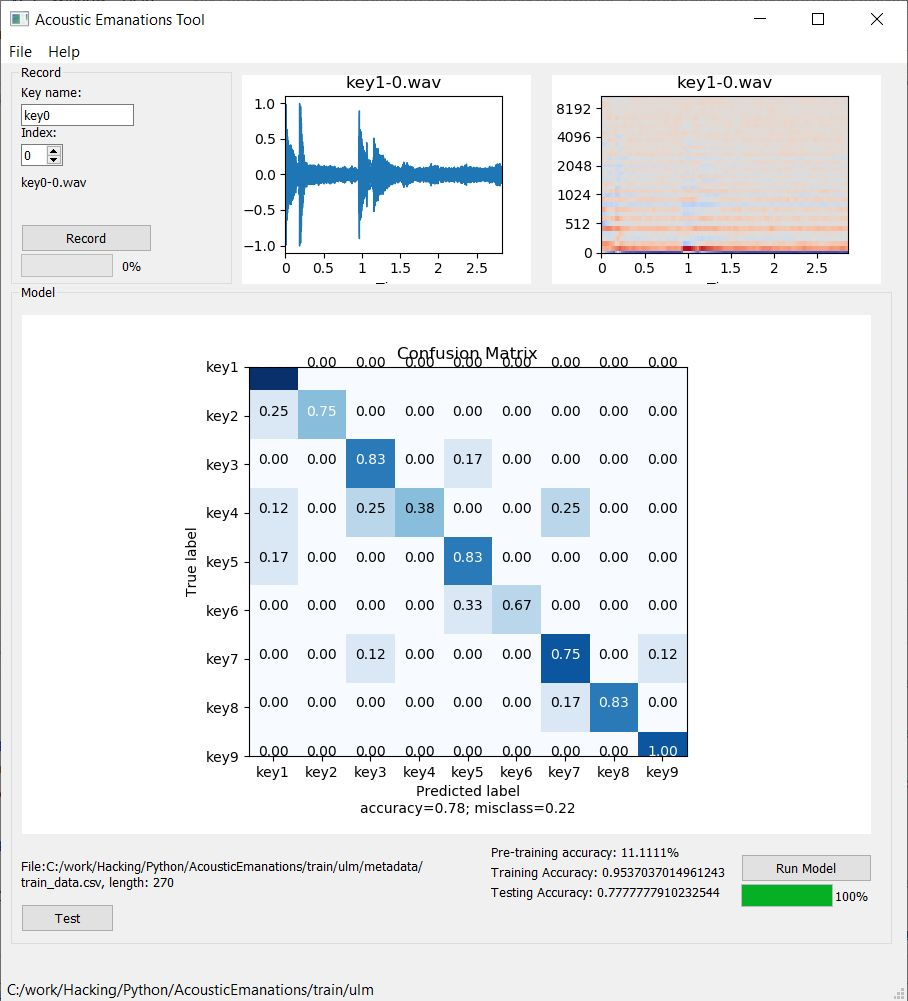
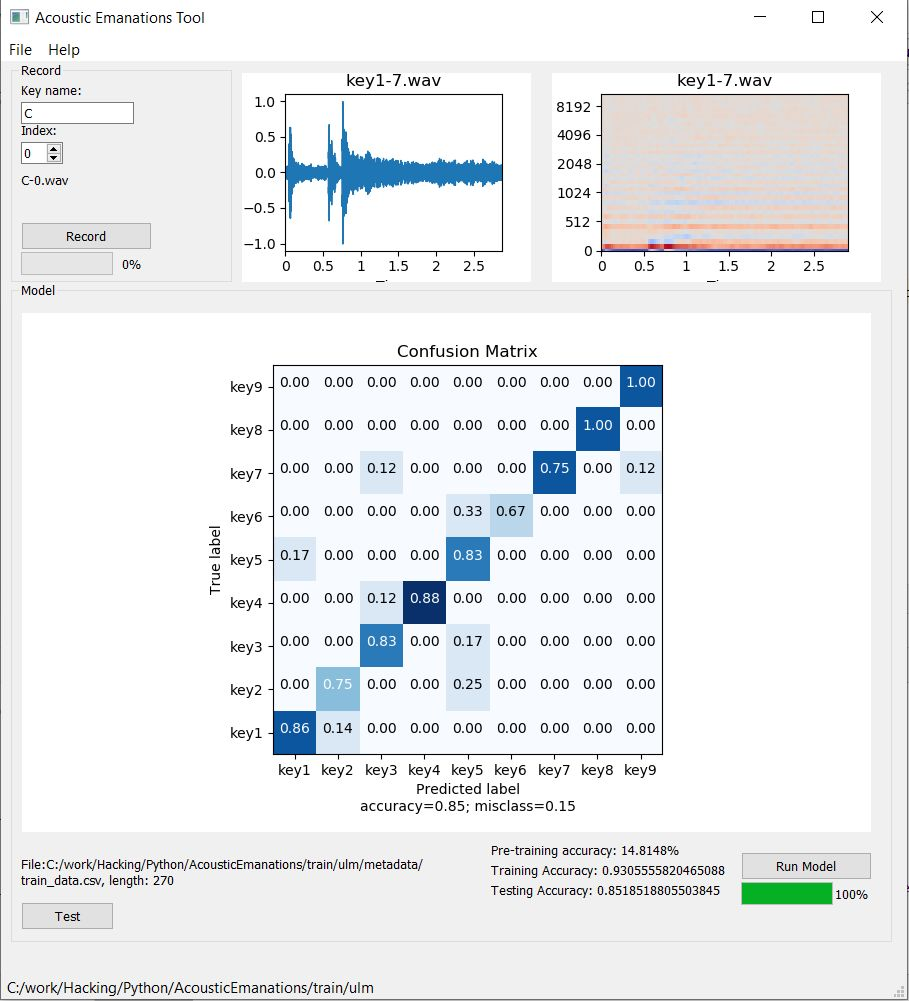
Improves confusion matrix display

diff --git a/src/AcousticEmanations.py b/src/AcousticEmanations.py
@@ -46,7 +46,6 @@ from PyQt5.QtWidgets import QApplication, QMainWindow, QMessageBox, QFileDialog
 from keras.callbacks import ModelCheckpoint
 from keras.layers import Dense, Dropout, Activation
 from keras.models import Sequential
-#from keras.optimizers import Adam
 from keras.utils import to_categorical
 from sklearn.metrics import confusion_matrix
 from sklearn.model_selection import train_test_split
@@ -274,7 +273,7 @@ class MainWindow(QMainWindow, Ui_MainWindow):
 
         self.MplWidgetMatrix.canvas.axes.clear()
         # self.MplWidgetMatrix.canvas.axes.figure(figsize=(8, 6))
-        self.MplWidgetMatrix.canvas.axes.imshow(cm, interpolation='nearest', cmap=cmap)
+        self.MplWidgetMatrix.canvas.axes.imshow(cm, origin='lower', interpolation='nearest', cmap=cmap)
         self.MplWidgetMatrix.canvas.axes.set_title(title)
         #        self.MplWidgetMatrix.canvas.axes.colorbar()
 
